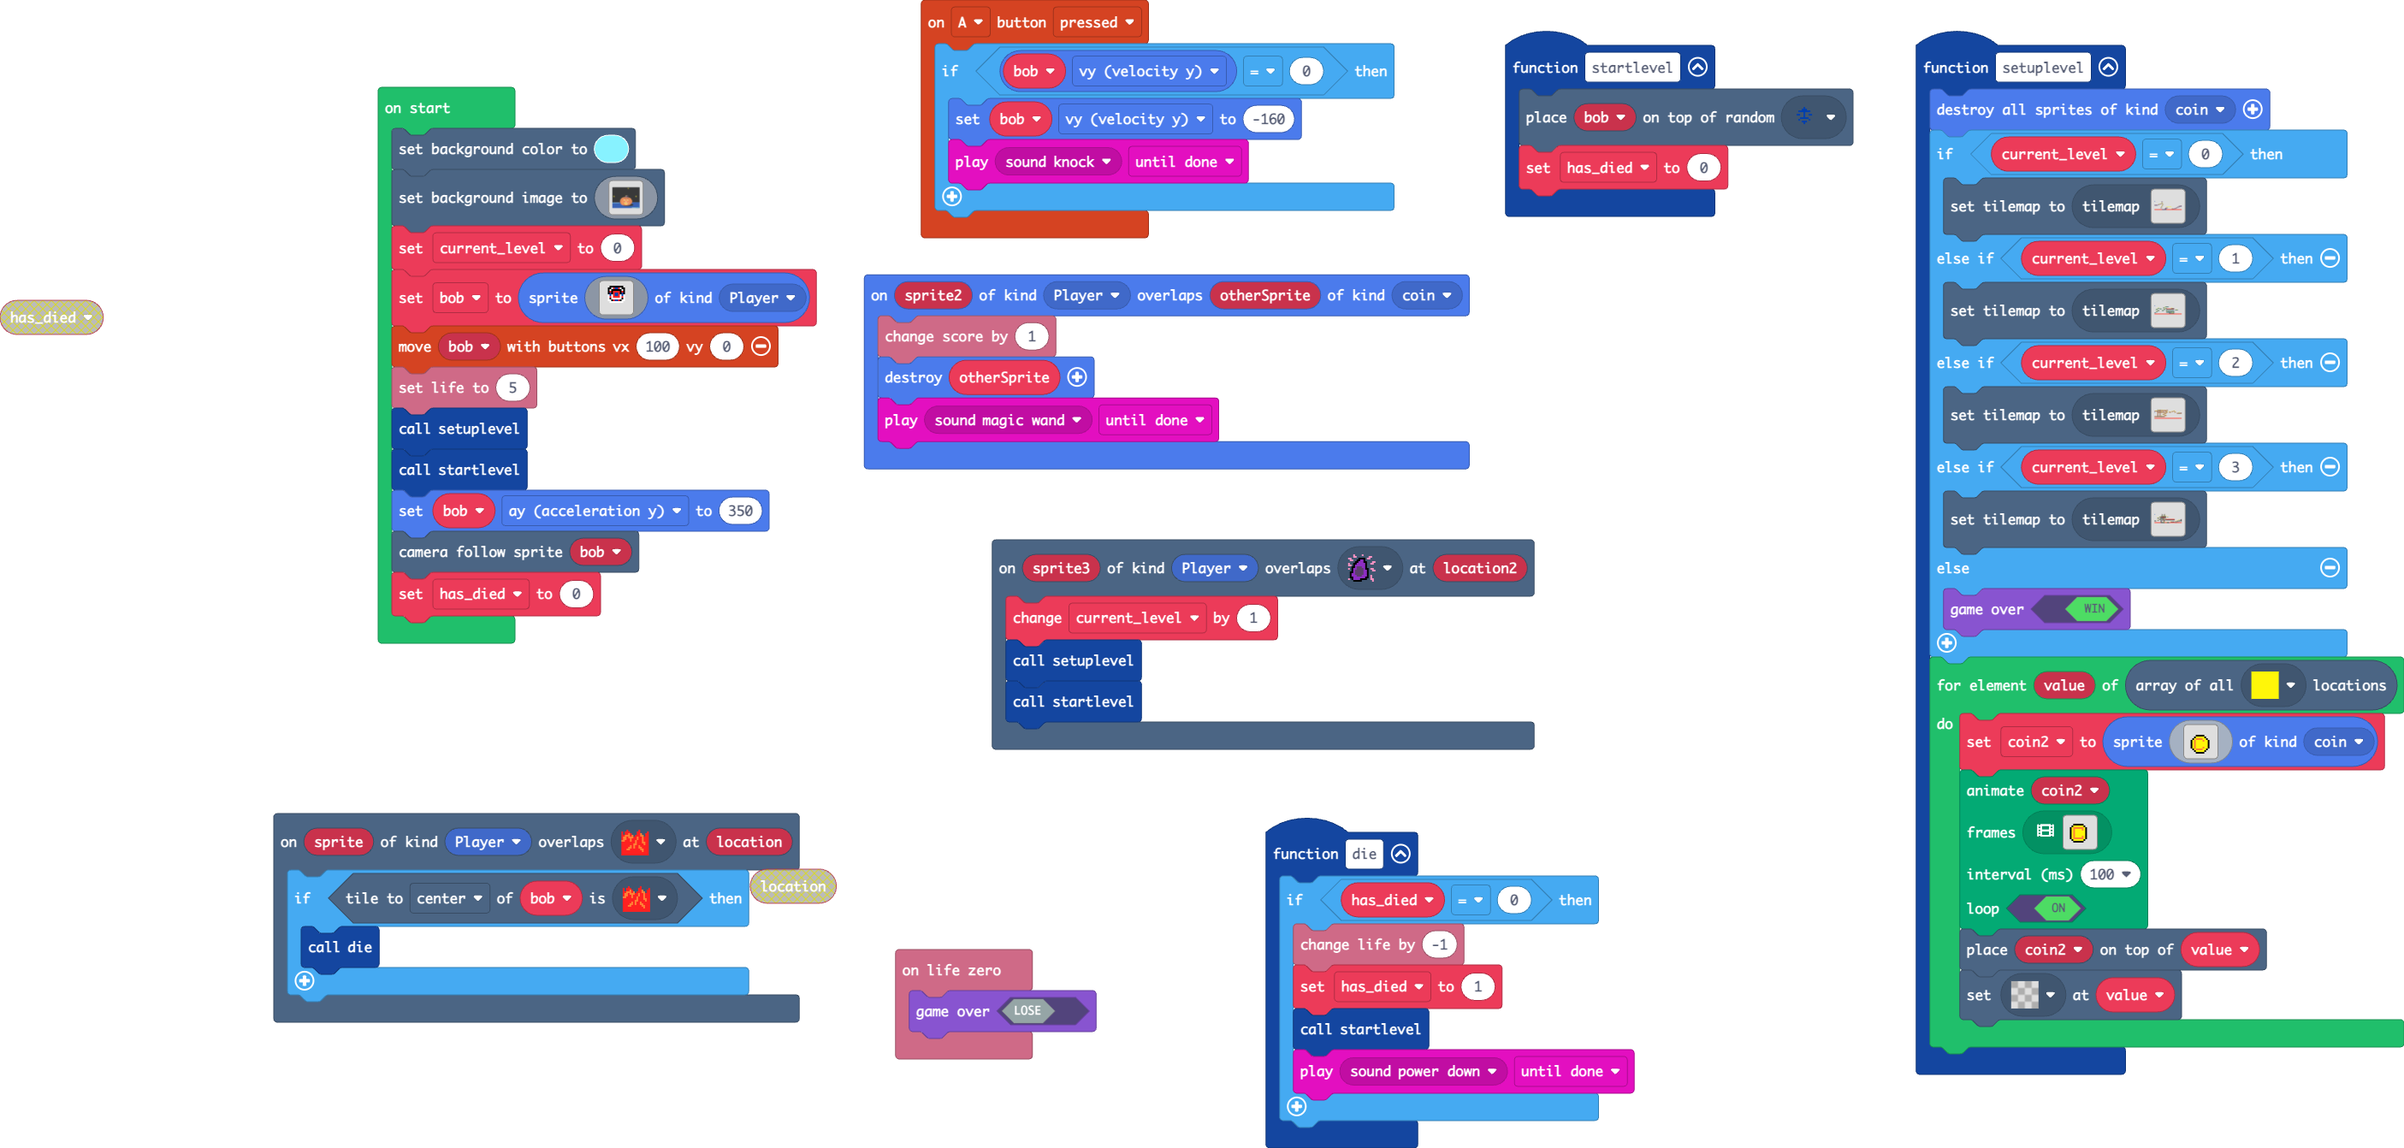
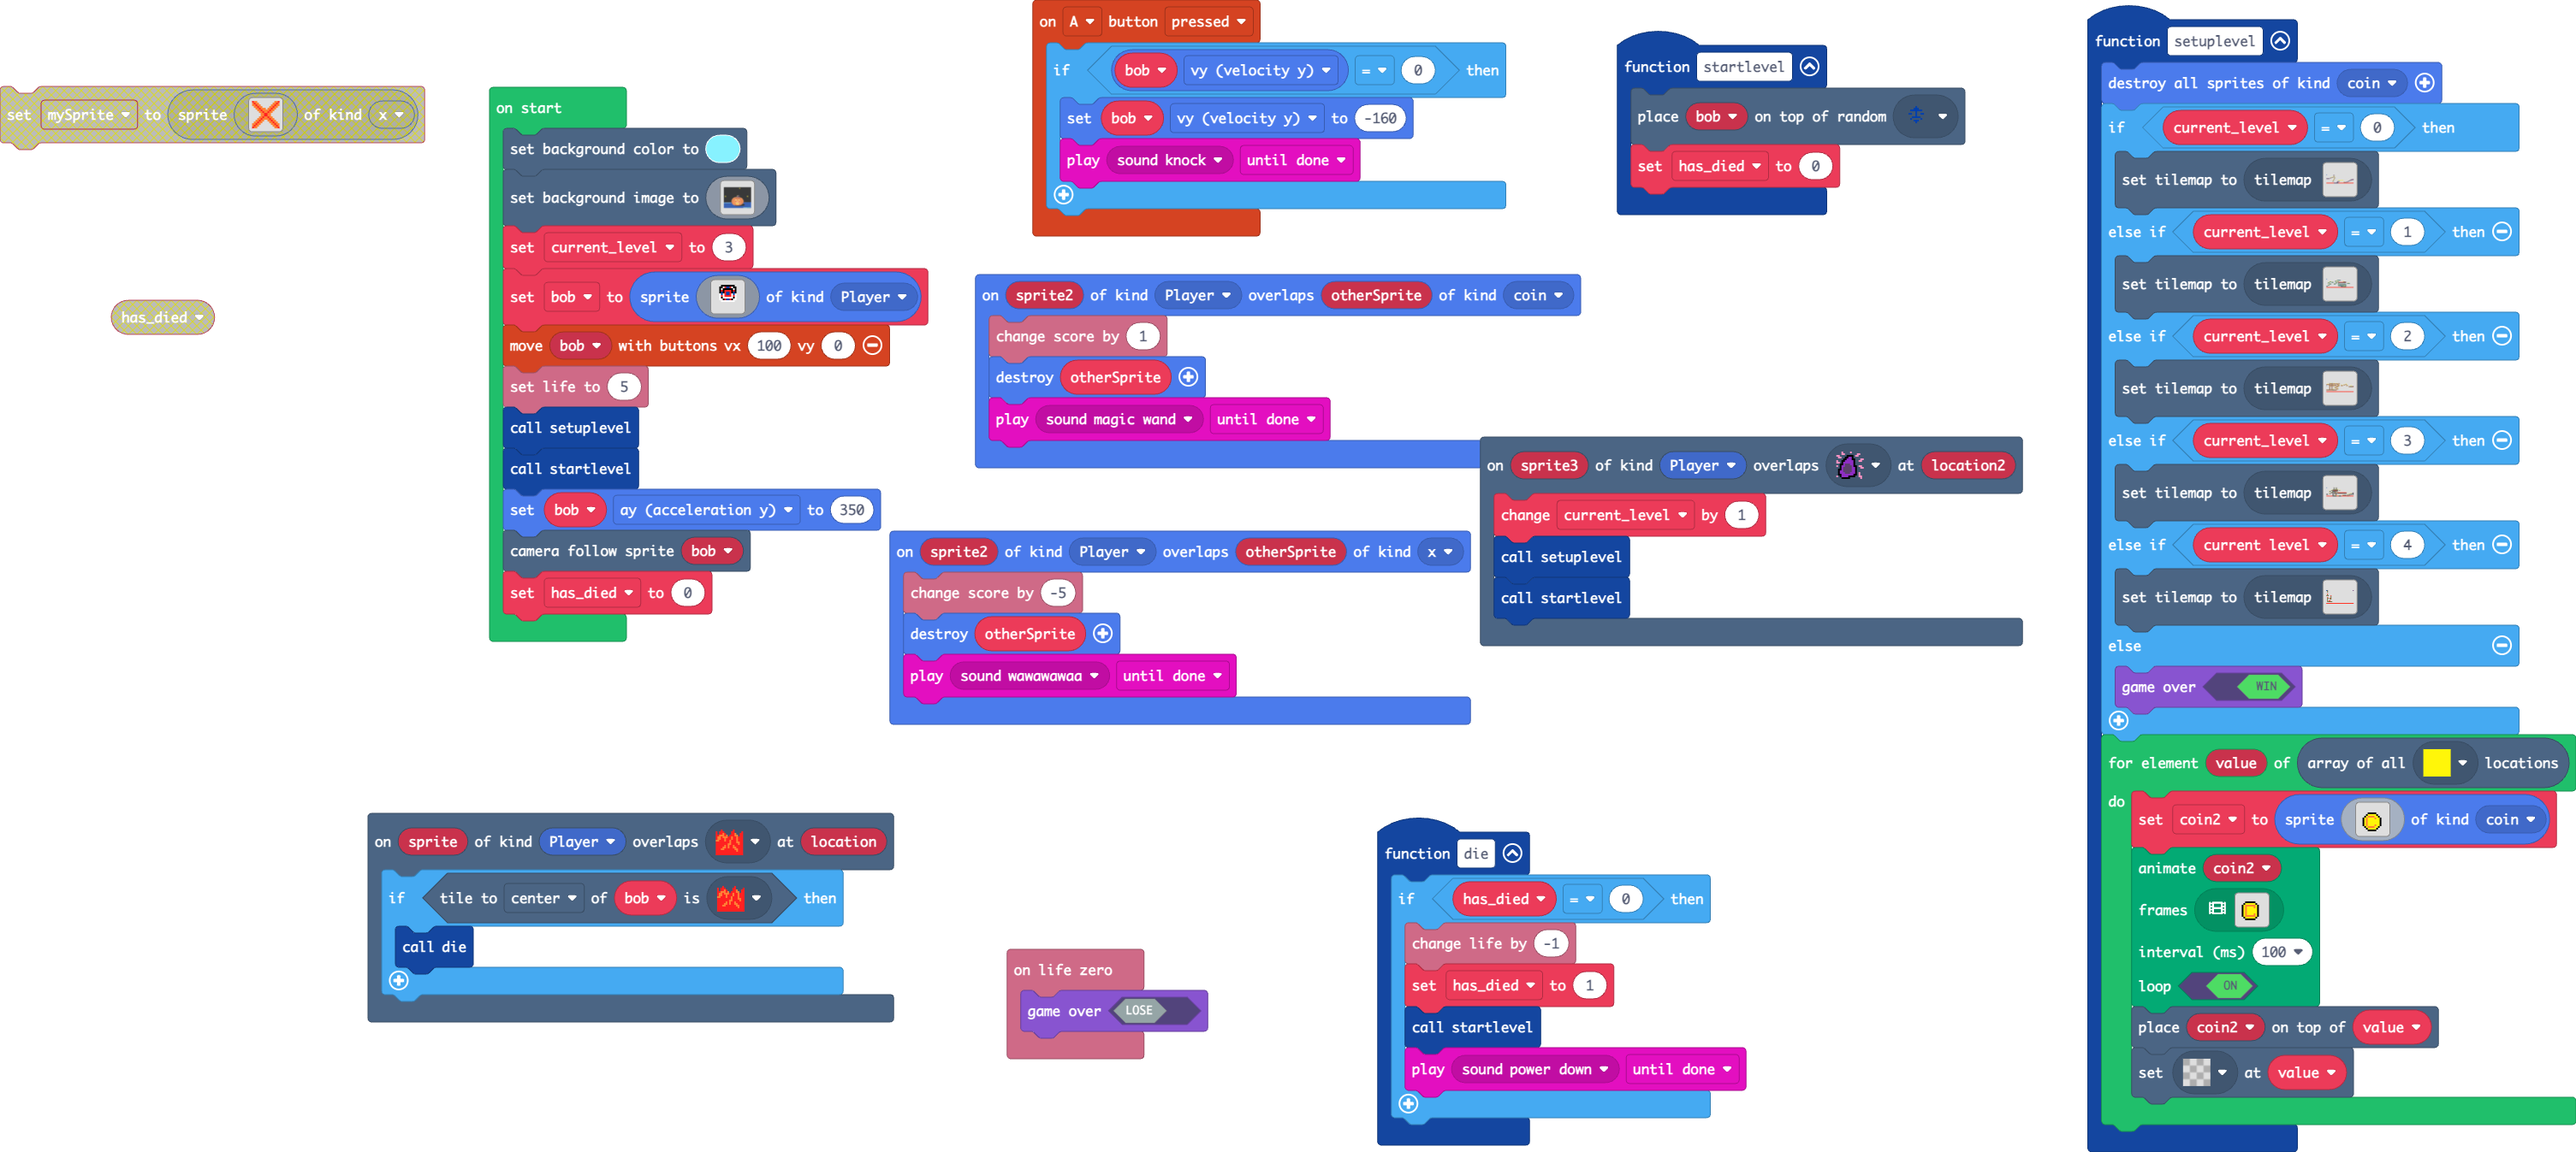
Update pxt.json, main.blocks, main.ts, tilemap.g.jres, tilemap.g.ts

diff --git a/tilemap.g.ts b/tilemap.g.ts
@@ -32,6 +32,12 @@ namespace myTiles {
     export const tile14 = image.ofBuffer(hex``);
     //% fixedInstance jres blockIdentity=images._tile
     export const tile15 = image.ofBuffer(hex``);
+    //% fixedInstance jres blockIdentity=images._tile
+    export const tile16 = image.ofBuffer(hex``);
+    //% fixedInstance jres blockIdentity=images._tile
+    export const tile17 = image.ofBuffer(hex``);
+    //% fixedInstance jres blockIdentity=images._tile
+    export const tile18 = image.ofBuffer(hex``);
 
     helpers._registerFactory("tilemap", function(name: string) {
         switch(helpers.stringTrim(name)) {
@@ -187,6 +193,25 @@ namespace myTiles {
 ...................222..........2222.2............
 ..............22222222............................
 `, [myTiles.transparency16,myTiles.tile3,myTiles.tile4,myTiles.tile5,myTiles.tile9,myTiles.tile12], TileScale.Sixteen);
+            case "level10":
+            case "level10":return tiles.createTilemap(hex`1000100000000000000000000000000000000000000000000000000000000000000000000000000000000000000000000000000000000000000000000000000000000000000000000000000000000000000000000000000000000000000000000000000000000000000000000000000000000000000000000000000000000000000000000000000000000000000000000000000000000000000000000000000000000000000000000000000000000000000000000000000000000000000000000000000000000000000000000000000000000000000000000000000000000000000000000000000000000000000000000000000000000000000000000000000000000000`, img`
+. . . . . . . . . . . . . . . . 
+. . . . . . . . . . . . . . . . 
+. . . . . . . . . . . . . . . . 
+. . . . . . . . . . . . . . . . 
+. . . . . . . . . . . . . . . . 
+. . . . . . . . . . . . . . . . 
+. . . . . . . . . . . . . . . . 
+. . . . . . . . . . . . . . . . 
+. . . . . . . . . . . . . . . . 
+. . . . . . . . . . . . . . . . 
+. . . . . . . . . . . . . . . . 
+. . . . . . . . . . . . . . . . 
+. . . . . . . . . . . . . . . . 
+. . . . . . . . . . . . . . . . 
+. . . . . . . . . . . . . . . . 
+. . . . . . . . . . . . . . . . 
+`, [myTiles.transparency16], TileScale.Sixteen);
             case "level8":
             case "level8":return tiles.createTilemap(hex`320010000500000000000000000000000000010000000100000000000000000000000000000000000000000000000000000000000000000000000000000000000000000001000000010000000000000000000000000000000000000000000000000000000000000000000000000000000000000000000100000001000000000000000000000000000000000000000000000000000000000000000000000000000000000000000000010004000100040000000000000000000000000000000000000000000000000000000000000000000000000000000400060101010601010106000000040000000000000000000000000000000000000000000000000000000000000000000006060006020202060202020600000006000000000000000000000000000000000000000000000000000000000000000400000000000606060606060606060000000000000000000000000000000000000000000000000000000000000000000000060600000006060000060200000000000000000000000000000000000000000000000000000000000000000000000000000000000000040006000006060002000400000000000000000000000000000000000000000000000000000000000000000000000000000606000600000604000600060202020202020202020202020202020200000000000000000000000003000000000000040000000000060000060600060000060606060606060606060606060606060000000000000000040000060600000000000006060000000006000006000006000000000000000000000000000000000000000000000004000006000006060606060000000000000000000600000000020600000000000000000000000000000000000000000400000600000600000606000000000000000000000000060000000006000000000000000000000000040000000000000000060000060000060000000000000000000000000000000006000000040004000000000400000000000006060606060606000006000006000000000000000202020202020202020202020606060606060602020202060606060202020202020202020202020602020202020202020202`, img`
 ..................................................
@@ -205,7 +230,26 @@ namespace myTiles {
 ............2....2.....................2..2..2....
 ............2.................2222222..2..2.......
 ............2222222....2222............2..........
-`, [myTiles.transparency16,myTiles.tile1,myTiles.tile3,myTiles.tile4,myTiles.tile5,myTiles.tile9,myTiles.tile15], TileScale.Sixteen);
+`, [myTiles.transparency16,myTiles.tile1,myTiles.tile3,myTiles.tile4,myTiles.tile5,myTiles.tile9,myTiles.tile15,myTiles.tile16], TileScale.Sixteen);
+            case "level11":
+            case "level11":return tiles.createTilemap(hex`200010000402000000000000000000000000000000000000000000000000000000000003000200000000000000000000000000000000000000000000000000000000000000020000000000000000000000000000000000000000000000000000000000000000000000000000000000000000000000000000000000000000000000000000000100000000000000000000000000000000000000000000000000000000000000020000000000000000000000000000000000000000000000000000000000000202020000010000000000000000000000000000000000000000000000000000000000000002000000000000000000000000000000000000000000000000000000010000000200000000000000000000000000000000000000000000000000000002020001020000000000000000000000000000000000000000000000000000000200000202000000000000000000000000000000000000000000000000000000020000000000000000000000000000000000000000000000000000000000000002000101000000000000000000000000000000000000000000000000000000000202020202020000000000000000000000000000000000000000000000000000000000000000000000000000000000000000000000000000000000000000000101010101010101010101010101010101010101010101010101010101010101`, img`
+................................
+................................
+................................
+................................
+................................
+................................
+................................
+................................
+................................
+................................
+................................
+................................
+................................
+................................
+................................
+................................
+`, [myTiles.transparency16,myTiles.tile3,myTiles.tile17,myTiles.tile4,myTiles.tile9], TileScale.Sixteen);
         }
         return null;
     })
@@ -243,6 +287,12 @@ namespace myTiles {
             case "tile14":return tile14;
             case "myTile13":
             case "tile15":return tile15;
+            case "myTile14":
+            case "tile16":return tile16;
+            case "myTile15":
+            case "tile17":return tile17;
+            case "myTile16":
+            case "tile18":return tile18;
         }
         return null;
     })

diff --git a/main.ts b/main.ts
@@ -1,10 +1,16 @@
 namespace SpriteKind {
     export const coin = SpriteKind.create()
+    export const x = SpriteKind.create()
 }
 scene.onOverlapTile(SpriteKind.Player, assets.tile`myTile1`, function (sprite, location) {
     if (bob.tileKindAt(TileDirection.Center, assets.tile`myTile1`)) {
         die()
     }
+})
+sprites.onOverlap(SpriteKind.Player, SpriteKind.x, function (sprite2, otherSprite) {
+    info.changeScoreBy(-5)
+    sprites.destroy(otherSprite)
+    music.play(music.melodyPlayable(music.wawawawaa), music.PlaybackMode.UntilDone)
 })
 controller.A.onEvent(ControllerButtonEvent.Pressed, function () {
     if (bob.vy == 0) {
@@ -33,6 +39,7 @@ sprites.onOverlap(SpriteKind.Player, SpriteKind.coin, function (sprite2, otherSp
     music.play(music.melodyPlayable(music.magicWand), music.PlaybackMode.UntilDone)
 })
 function setuplevel () {
+    let current_level2 = 0
     sprites.destroyAllSpritesOfKind(SpriteKind.coin)
     if (current_level == 0) {
         tiles.setCurrentTilemap(tilemap`level1`)
@@ -42,6 +49,8 @@ function setuplevel () {
         tiles.setCurrentTilemap(tilemap`level7`)
     } else if (current_level == 3) {
         tiles.setCurrentTilemap(tilemap`level8`)
+    } else if (current_level2 == 4) {
+        tiles.setCurrentTilemap(tilemap`level11`)
     } else {
         game.gameOver(true)
     }
@@ -376,7 +385,7 @@ scene.setBackgroundImage(img`
     8888888888888888888888888888888888888888888888888888888888888888888888888888888888888888888888888888888888888888889999999999999999999999966666666666666688888888
     8888888888888888888888888888888888888888888888888888888888888888888888888888888888888888888888888888888888888888888888888888888888888888888888888888888888888888
     `)
-current_level = 0
+current_level = 3
 bob = sprites.create(assets.image`design1`, SpriteKind.Player)
 controller.moveSprite(bob, 100, 0)
 info.setLife(5)
